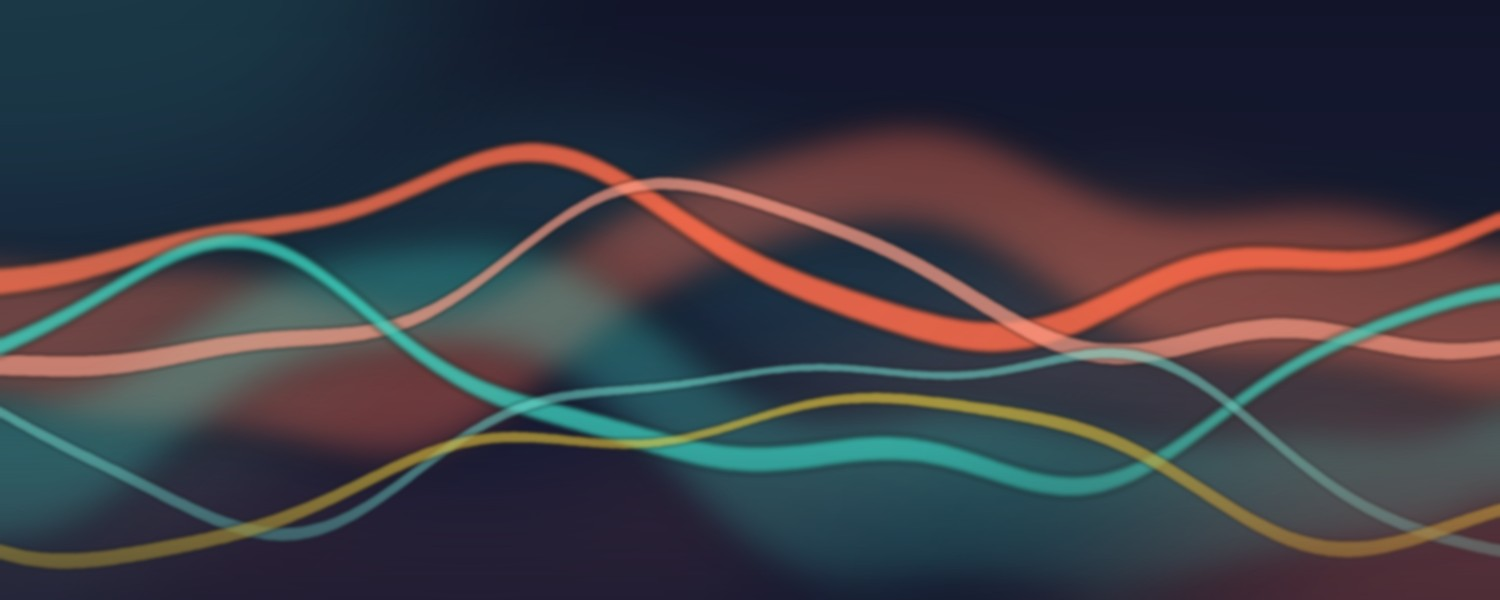
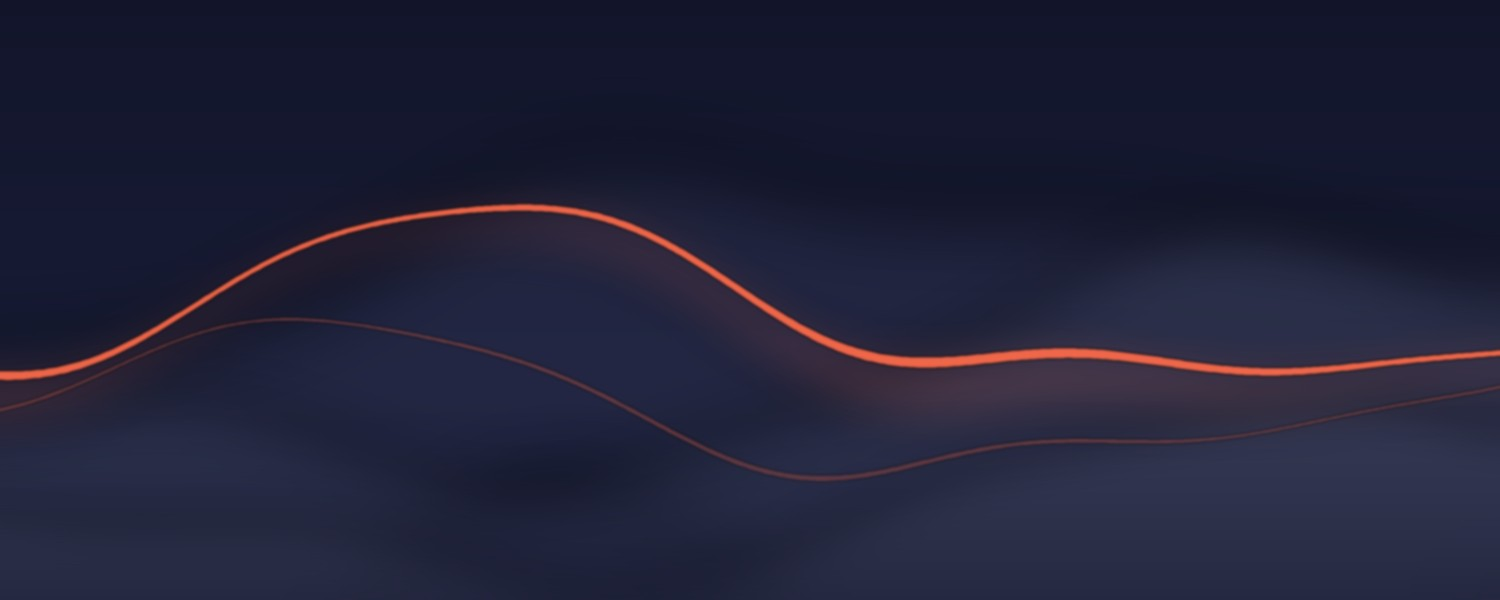
Redesign Notion cover: minimal duotone, navy + single coral line

diff --git a/scripts/generate_notion_cover.py b/scripts/generate_notion_cover.py
@@ -67,55 +67,47 @@ def ribbon(base_y, amp, thickness, freqs, phases, color, alpha, blur, drift=0.0)
 # --- Base: deep navy gradient ------------------------------------------------
 img = vertical_gradient((w, h), NAVY_DARK, NAVY).convert("RGBA")
 
-# --- Back layers: big soft blurred washes (depth) ----------------------------
+# Tone-on-tone navy shades for depth (duotone look: navy + one coral accent)
+NAVY_L1 = lerp(NAVY, (255, 255, 255), 0.06)
+NAVY_L2 = lerp(NAVY, (255, 255, 255), 0.11)
+NAVY_L3 = lerp(NAVY, (255, 255, 255), 0.17)
+
+# --- Back: broad, soft tone-on-tone swells (subtle topography) ---------------
 back = [
     # (base_y, amp, thickness, color, alpha, blur, drift)
-    (h * 0.30, 90 * SS, 300 * SS, MINT, 34, 60 * SS, 0.02),
-    (h * 0.60, 110 * SS, 300 * SS, CORAL, 36, 70 * SS, -0.03),
+    (h * 0.42, 90 * SS, 420 * SS, NAVY_L1, 160, 40 * SS, 0.015),
+    (h * 0.62, 100 * SS, 400 * SS, NAVY_L2, 130, 30 * SS, -0.02),
+    (h * 0.80, 80 * SS, 360 * SS, NAVY_L3, 110, 24 * SS, 0.01),
 ]
 for base_y, amp, th, col, alpha, blur, drift in back:
-    freqs = [(0.8, 1.0), (1.7, 0.45), (3.1, 0.18)]
+    freqs = [(0.7, 1.0), (1.6, 0.4), (2.9, 0.15)]
     phases = [random.uniform(0, 2 * math.pi) for _ in freqs]
     img = Image.alpha_composite(img, ribbon(base_y, amp, th, freqs, phases, col, alpha, blur, drift))
 
-# --- Mid layers: defined translucent ribbons ---------------------------------
-mid = [
-    (h * 0.38, 70 * SS, 140 * SS, CORAL, 100, 18 * SS, -0.02),
-    (h * 0.55, 85 * SS, 150 * SS, MINT, 85, 20 * SS, 0.03),
-]
-for base_y, amp, th, col, alpha, blur, drift in mid:
-    freqs = [(1.1, 1.0), (2.3, 0.4), (4.2, 0.15)]
-    phases = [random.uniform(0, 2 * math.pi) for _ in freqs]
-    img = Image.alpha_composite(img, ribbon(base_y, amp, th, freqs, phases, col, alpha, blur, drift))
+# --- Accent: one crisp coral line with a soft echo ---------------------------
+phases_main = [random.uniform(0, 2 * math.pi) for _ in range(3)]
+freqs_main = [(1.0, 1.0), (2.1, 0.35), (3.8, 0.12)]
+# soft wide glow under the line
+img = Image.alpha_composite(
+    img, ribbon(h * 0.52, 85 * SS, 60 * SS, freqs_main, phases_main, CORAL, 46, 26 * SS, -0.015)
+)
+# the line itself
+img = Image.alpha_composite(
+    img, ribbon(h * 0.53, 85 * SS, 9 * SS, freqs_main, phases_main, CORAL, 235, 1.5 * SS, -0.015)
+)
+# thin quiet echo below, same family
+phases_echo = [p + 0.9 for p in phases_main]
+img = Image.alpha_composite(
+    img, ribbon(h * 0.68, 70 * SS, 5 * SS, freqs_main, phases_echo, lerp(CORAL, NAVY, 0.45), 150, 1.5 * SS, -0.01)
+)
 
-# --- Front layers: crisp thin highlight ribbons ------------------------------
-front = [
-    (h * 0.42, 75 * SS, 26 * SS, CORAL, 220, 3 * SS, -0.02),
-    (h * 0.50, 80 * SS, 18 * SS, lerp(CORAL, (255, 255, 255), 0.35), 180, 2 * SS, -0.018),
-    (h * 0.60, 90 * SS, 22 * SS, MINT, 210, 3 * SS, 0.028),
-    (h * 0.66, 85 * SS, 12 * SS, lerp(MINT, (255, 255, 255), 0.3), 150, 2 * SS, 0.03),
-    (h * 0.78, 65 * SS, 14 * SS, YELLOW, 160, 2 * SS, -0.012),
-]
-for base_y, amp, th, col, alpha, blur, drift in front:
-    freqs = [(1.15, 1.0), (2.4, 0.38), (4.5, 0.12)]
-    phases = [random.uniform(0, 2 * math.pi) for _ in freqs]
-    img = Image.alpha_composite(img, ribbon(base_y, amp, th, freqs, phases, col, alpha, blur, drift))
-
-# --- Re-ground the bottom in navy so ribbons pop instead of muddying ---------
+# --- Vignette to ground the edges --------------------------------------------
 ground = Image.new("RGBA", (w, h), (0, 0, 0, 0))
 gg = ImageDraw.Draw(ground)
-for y in range(int(h * 0.55), h):
-    t = (y - h * 0.55) / (h * 0.45)
-    gg.line([(0, y), (w, y)], fill=NAVY_DARK + (int(150 * t**1.6),))
+for y in range(int(h * 0.6), h):
+    t = (y - h * 0.6) / (h * 0.4)
+    gg.line([(0, y), (w, y)], fill=NAVY_DARK + (int(120 * t**1.8),))
 img = Image.alpha_composite(img, ground)
-
-# --- Corner glow accents ------------------------------------------------------
-glow = Image.new("RGBA", (w, h), (0, 0, 0, 0))
-gd = ImageDraw.Draw(glow)
-gd.ellipse([-w * 0.25, -h * 0.6, w * 0.35, h * 0.5], fill=MINT + (46,))
-gd.ellipse([w * 0.68, h * 0.55, w * 1.25, h * 1.6], fill=CORAL + (52,))
-glow = glow.filter(ImageFilter.GaussianBlur(120 * SS))
-img = Image.alpha_composite(img, glow)
 
 # --- Downsample + save --------------------------------------------------------
 out = img.convert("RGB").resize((W, H), Image.LANCZOS)
